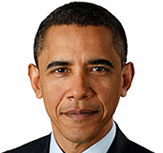
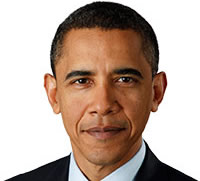
Edits to signup form.

diff --git a/jekyll-blog/css/sas-styles.css b/jekyll-blog/css/sas-styles.css
@@ -320,7 +320,7 @@ ul.menu li {
 #no-zipcode-btn {
   width: 100%;
   text-align: center;
-  margin: 0 auto;
+  margin: 5px auto 10px;
   display: block;
   font-size: 14px;
 }
@@ -480,8 +480,8 @@ ul.menu li {
 }
 .letter-recipient-headshot {
   position: absolute;
-  top: -154px;
-  left: 2px;
+  top: -182px;
+  left: 1px;
 }
 
 #recent-signatories h3 {
@@ -628,7 +628,7 @@ table.tablesorter thead tr .headerSortDown, table.tablesorter thead tr .headerSo
     font-size: 50px;
   }
   #letter-signup #letter-wrapper h2 {
-    line-height: 21px;
+    line-height: 17px;
     font-size: 45px;
   }
   #letter-aside {
